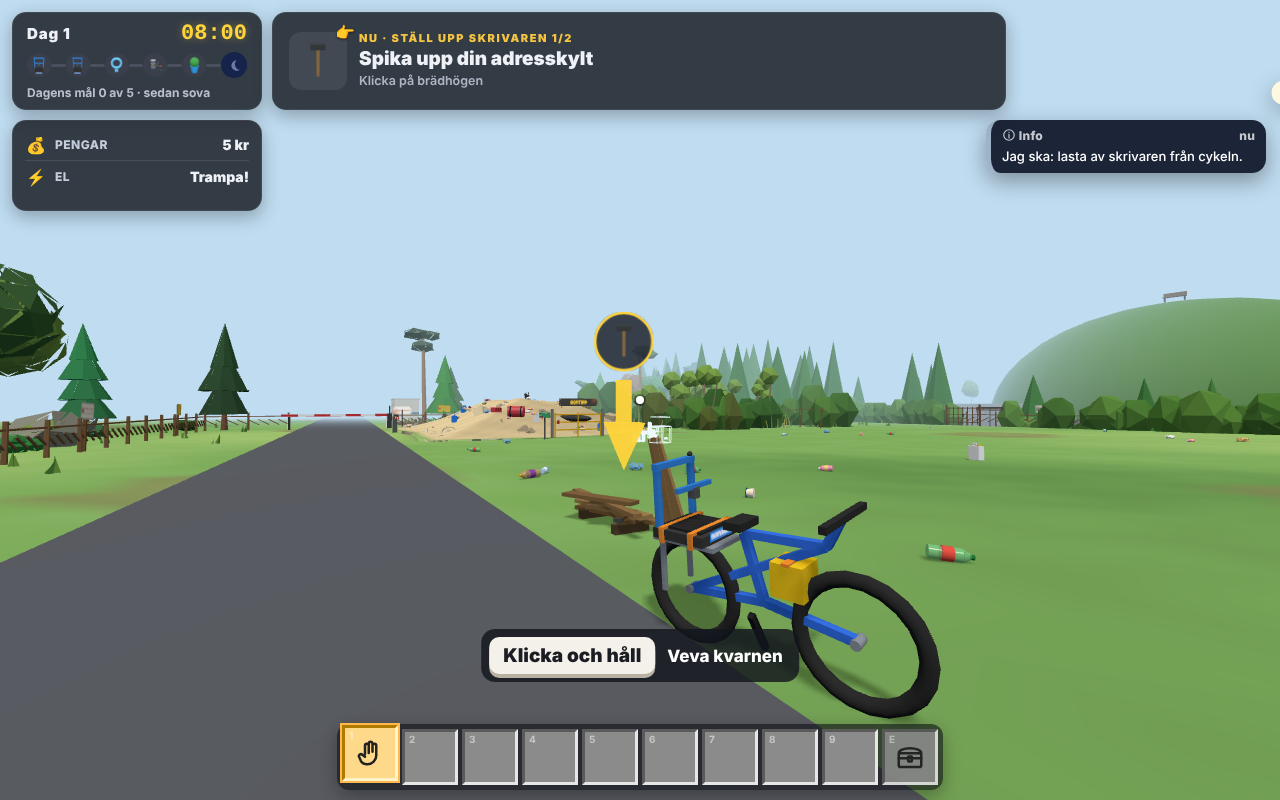
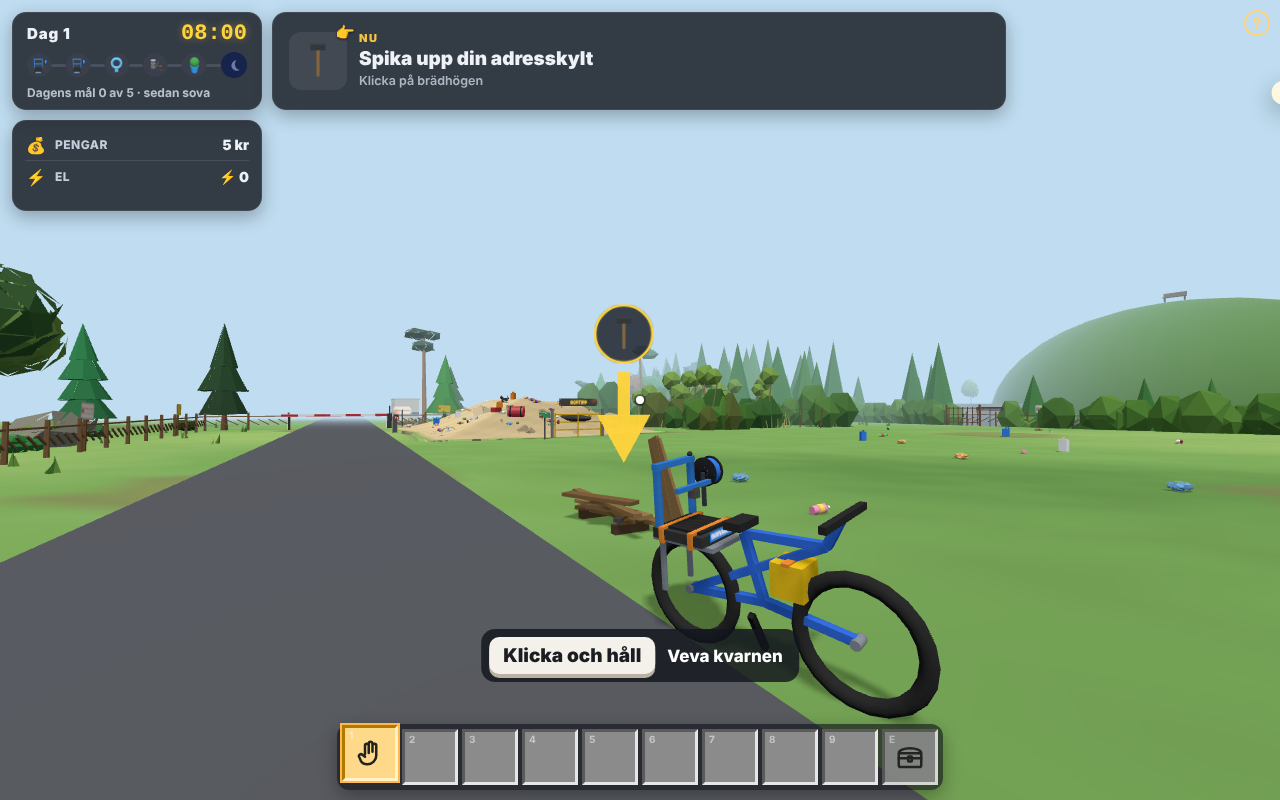
A-076 tillägg 11:35 + 11:45: kanNu-kedjan, cykeln och generatorn var för sig, kabeln till skrivaren, inga rostklossar, ingen vit ram, en trampa-uppmaning, kontrollerna i ordning, Esc alltid, hammarslaget
- kanNu: ingen cykel → "Den har ingen ström.", cykeln men tomt batteri → "Batteriet är tomt. Trampa!", sedan filamentet
- cykeln i handen visar inte generatorn (klonens barn döljs per index), handen är tom efter att något ställts ner
- generatorn glider upp på cykeln när båda står, kabeln räknas fram från generatorn till skrivaren
- rostlapparna (fasta platser som svävade runt skrivarens ram) borta, Interaktorns vita ram av i Printa Hem (utanRam)
- trampa sägs på ett ställe: skylten på skrivaren säger skälet, HUD visar strömmen, kontrollhjälpen tar uppmaningen
- regler DUBBEL UPPMANING och TIPS OM SAKNAD SAK
- kontroller: ta upp → ställ ner → byt ("Rulla hjulet för att ta generatorn") → vrid; gamla R-knappen av; FpUI promptTangent ''
- Esc öppnar och stänger menyn i alla lägen (också utan muslås), medKo blockerar inte längre pausen
- regiToastNu går förbi gamla toast-omslaget som tappade läsbar tid
- test-a076d (10 Esc-lägen) grönt

Claude-Session: https://claude.ai/code/session_014156cp9JxbGsW1A8ZsF5gD

diff --git a/delat/fp/ui.js b/delat/fp/ui.js
@@ -84,7 +84,7 @@ export class FpUI {
   // ---------- Visning ----------
   prompt(text) {
     const p = this.el('.fp-prompt');
-    if (text) p.textContent = text.startsWith('\u2060') ? text.slice(1) : (this.o.spelare?.arTouch ? '✋ ' : '[E] ') + text;   // \u2060 först = det går inte att göra, ingen knapp
+    if (text) p.textContent = text.startsWith('\u2060') ? text.slice(1) : (this.o.spelare?.arTouch ? '✋ ' : (this.o.promptTangent ?? '[E] ')) + text;   // promptTangent: '' när spelet säger knappen själv   // \u2060 först = det går inte att göra, ingen knapp
     p.classList.toggle('syns', !!text);
     this.el('.fp-kors').classList.toggle('aktiv', !!text);
   }

diff --git a/delat/fp/interaktion.js b/delat/fp/interaktion.js
@@ -73,7 +73,7 @@ export class Interaktor {
     }
     if (this.hovrad) {
       this.ram.setFromObject(this.hovrad);
-      this.ram.visible = true;
+      this.ram.visible = !this.utanRam && !this.hovrad.userData.interaktion?.utanRam;   // utanRam: platsen visas på annat sätt (t.ex. en kontur), eller spelet har ingen ram alls
     } else {
       this.ram.visible = false;
     }
